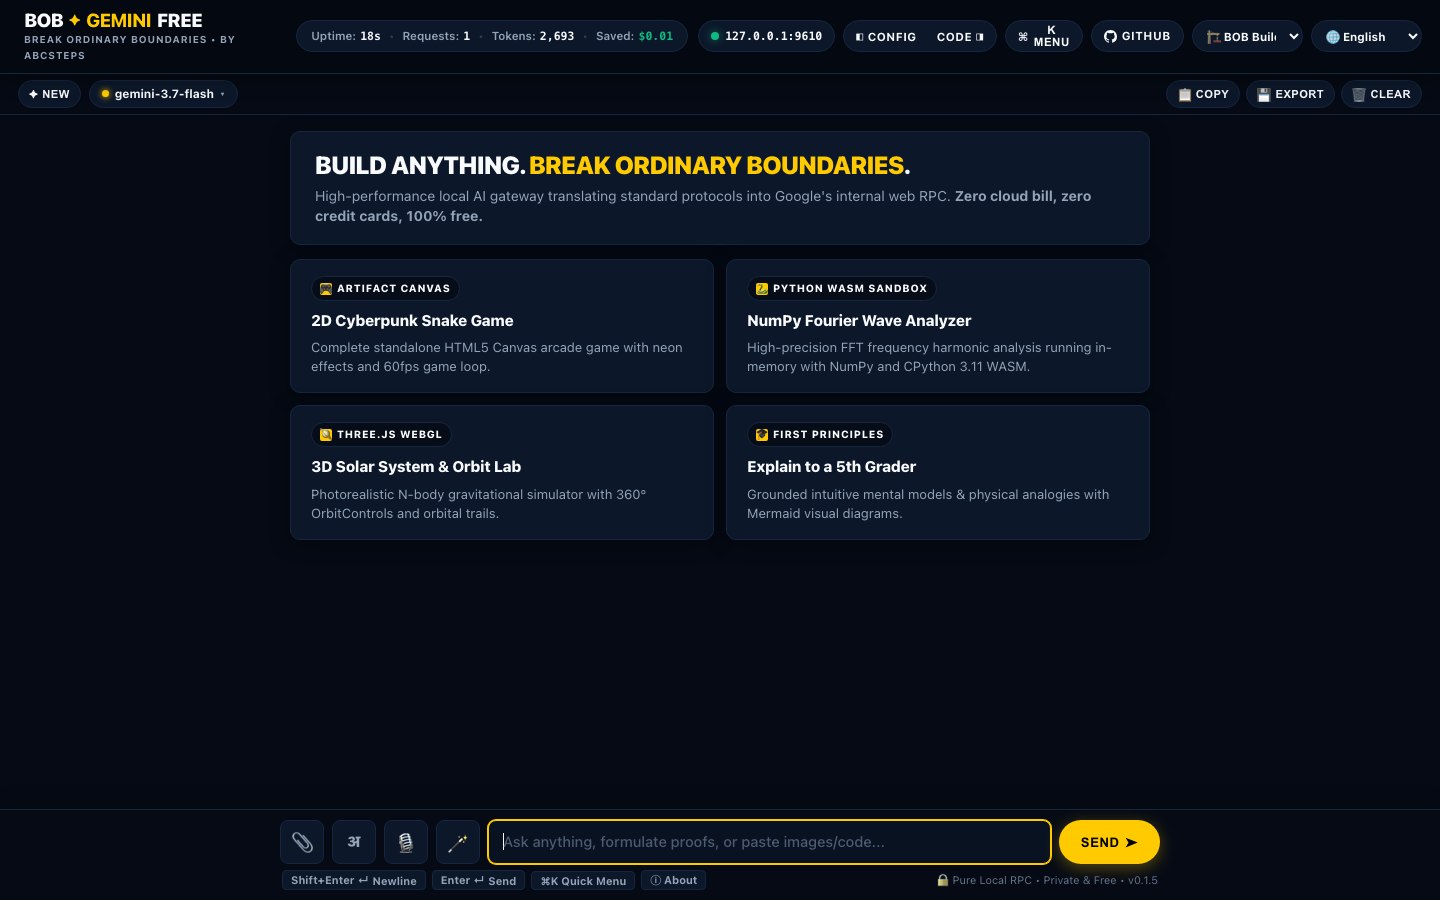
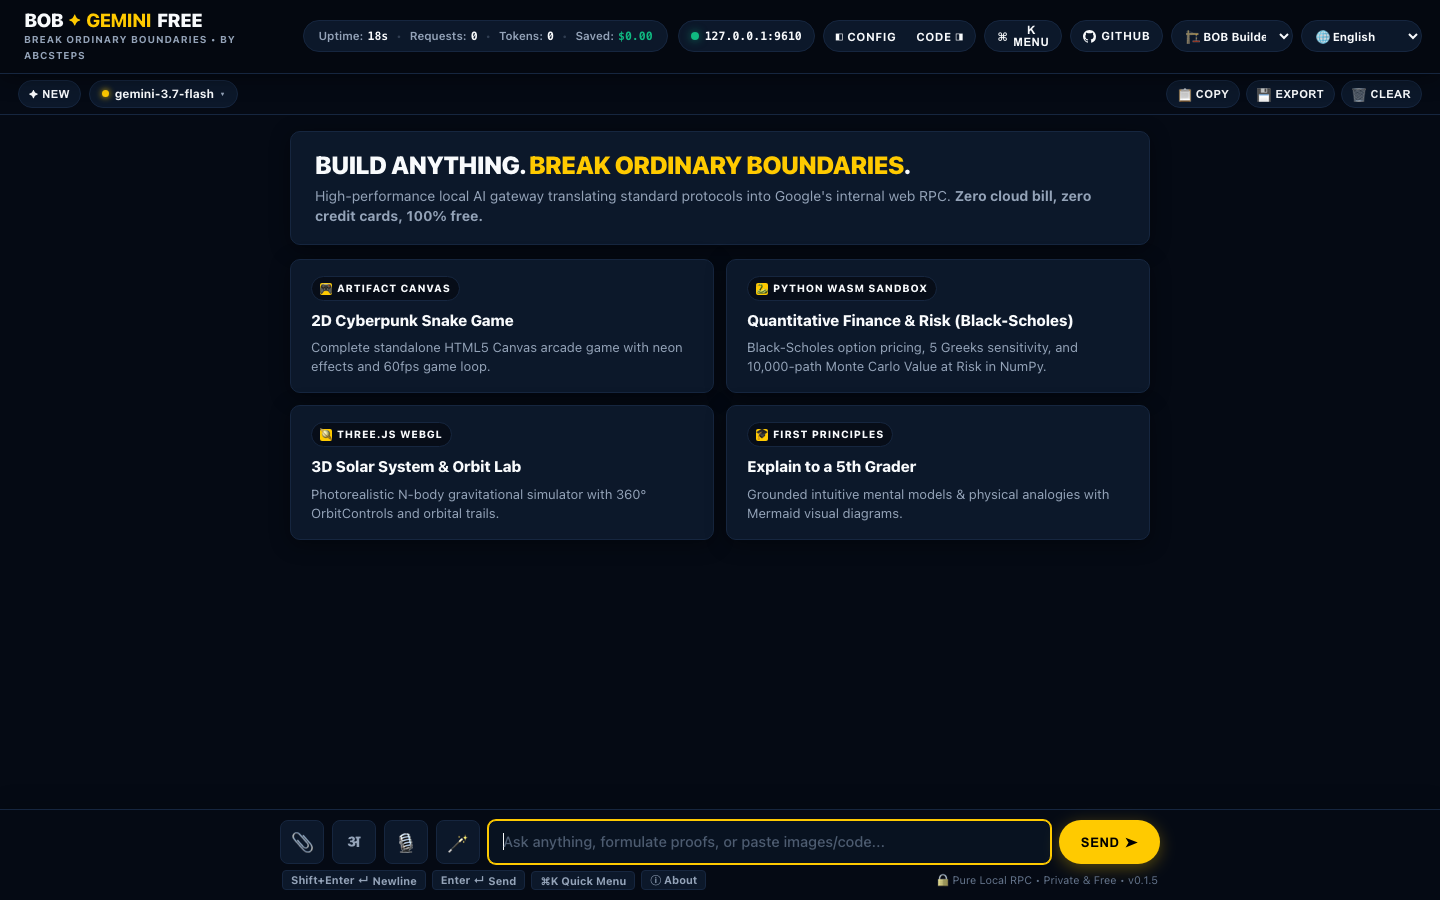
feat(showcase): upgrade Python WASM showcase to Quantitative Finance & Risk Analysis (Black-Scholes & Monte Carlo)

Changed region(s): [[0.1875, 0.0, 0.9688, 0.0622], [0.5312, 0.3422, 0.75, 0.4356]]

diff --git a/internal/server/playground.html b/internal/server/playground.html
@@ -3607,13 +3607,13 @@ tr:hover td { background: rgba(255, 255, 255, 0.02); }
               <div class="starter-card-title">2D Cyberpunk Snake Game</div>
               <div class="starter-card-desc">Complete standalone HTML5 Canvas arcade game with neon effects and 60fps game loop.</div>
             </div>
-            <div class="starter-card" onclick="selectStarter('py_fourier')">
+            <div class="starter-card" onclick="selectStarter('py_finance')">
               <div class="badge-chip">
                 <span class="mini-orb">🐍</span>
                 <span>PYTHON WASM SANDBOX</span>
               </div>
-              <div class="starter-card-title">NumPy Fourier Wave Analyzer</div>
-              <div class="starter-card-desc">High-precision FFT frequency harmonic analysis running in-memory with NumPy and CPython 3.11 WASM.</div>
+              <div class="starter-card-title">Quantitative Finance & Risk (Black-Scholes)</div>
+              <div class="starter-card-desc">Black-Scholes option pricing, 5 Greeks sensitivity, and 10,000-path Monte Carlo Value at Risk in NumPy.</div>
             </div>
             <div class="starter-card" onclick="selectStarter('orbit')">
               <div class="badge-chip">
@@ -3888,7 +3888,7 @@ const STARTER_PROMPTS_HI = {
   snake: "HTML5 Canvas में एक पूर्ण, स्टैंडअलोन 2D साइबरपंक स्नेक आर्केड गेम बनाएं। इसमें नियॉन ग्लो, खाना खाने पर कण विस्फोट (particles), बढ़ती कठिनाई, स्मूथ 60fps गेम लूप, हाई स्कोर ट्रैकिंग, Web Audio API ध्वनि प्रभाव और टच/तीर कुंजियों के नियंत्रण शामिल करें। संपूर्ण कोड एक ```html``` ब्लॉक में दें।",
   orbit: "Three.js (CDN के माध्यम से) का उपयोग करके HTML5 में एक पूर्ण, यथार्थवादी, इंटरैक्टिव 3D सौर मंडल व ग्रहीय कक्षा सिमुलेशन बनाएं। इसमें प्रकाशयुक्त सूर्य, G*m1*m2/r^2 गुरुत्वाकर्षण के साथ केप्लेरियन कक्षीय भौतिकी, चमकती कक्षीय रेखाएं, शनि के छल्ले, 360° OrbitControls (pan, rotate, zoom) और गति स्लाइडर शामिल करें। संपूर्ण कोड एक ```html``` ब्लॉक में दें।",
   compound: "Chart.js के साथ HTML5 में एक पूर्ण, स्टैंडअलोन इंटरैक्टिव वित्तीय चक्रवृद्धि ब्याज व धन वृद्धि कैलकुलेटर बनाएं। इसमें प्रारंभिक निवेश, मासिक योगदान, वार्षिक रिटर्न % और अवधि के लिए स्लाइडर्स शामिल करें। संचयी विकास का इंटरैक्टिव चार्ट प्रस्तुत करें। संपूर्ण कोड एक ```html``` ब्लॉक में दें।",
-  py_fourier: "Pyodide WebAssembly के लिए NumPy का उपयोग करके एक संपूर्ण वैज्ञानिक कम्प्यूटेशनल स्क्रिप्ट लिखें जो एक जटिल सिग्नल पर फास्ट फूरियर ट्रांसफॉर्म (FFT) विश्लेषण करे। पावर स्पेक्ट्रल घनत्व, पीक आवृत्तियों की गणना करें और एक संरचित ASCII स्पेक्ट्रम ग्राफ व मेट्रिक्स तालिका प्रिंट करें। संपूर्ण कोड एक ```python``` ब्लॉक में दें।",
+  py_finance: "Pyodide WebAssembly के लिए NumPy का उपयोग करके एक संपूर्ण परिमाणात्मक वित्त (Quantitative Finance) स्क्रिप्ट लिखें। ब्लैक-स्कोल्स मॉडल (Black-Scholes Model) का उपयोग करके कॉल और पुट विकल्पों का सटीक मूल्य निर्धारण करें, 5 जोखिम ग्रीक्स (Delta, Gamma, Theta, Vega, Rho) की गणना करें और 95% और 99% वैल्यू एट रिस्क (VaR) का अनुमान लगाने के लिए 10,000-पाथ मोंटे कार्लो सिमुलेशन चलाएं। एक संरचित वित्तीय डैशबोर्ड और जोखिम तालिका आउटपुट करें। संपूर्ण कोड एक ```python``` ब्लॉक में दें ताकि यह सीधे BOB के WASM सैंडबॉक्स में चले।",
   schrodinger: "डी ब्रोग्ली तरंग संबंधों और हैमिल्टनियन यांत्रिकी का उपयोग करते हुए प्रथम सिद्धांतों से समय-निर्भर श्रोडिंगर तरंग समीकरण (Time-Dependent Schrödinger Wave Equation) की KaTeX LaTeX गणितीय व्युत्पत्ति तैयार करें। प्रत्येक चरण को स्पष्ट समीकरणों के साथ समझाएं।",
   proof: "[विषय/सूत्र] के लिए चरण-दर-चरण गणितीय प्रमाण और KaTeX व्युत्पत्ति तैयार करें।",
   audit: "[सिस्टम/कोडबेस] का व्यापक प्रथम-सिद्धांत वास्तुकला विश्लेषण, सुरक्षा समीक्षा और तकनीकी बॉटलनेक ऑडिट करें।",
@@ -6250,7 +6250,7 @@ const STARTER_PROMPTS = {
   snake: "Build a complete, standalone 2D Cyberpunk Snake arcade game in HTML5 Canvas. Include neon glow aesthetics, particle explosions when eating food, increasing difficulty, smooth 60fps game loop, high score tracking, sound effects via Web Audio API, and touch + arrow key controls. Output the entire runnable code inside a single ```html``` block.",
   orbit: "Build a complete, photorealistic, interactive 3D Solar System & Planetary Orbit Simulation in standalone HTML5 using Three.js (via CDN). Include a glowing Sun with point light illumination, multi-planet Keplerian orbital mechanics with G*m1*m2/r^2 gravity, glowing orbital trail lines, textured planets, Saturn planetary rings, particle starfield galaxy background, full 360° OrbitControls (pan, rotate, mouse/touch zoom), and real-time physics controls (Simulation Speed 1x-100x, Pause/Play, Reset). Output the entire runnable self-contained code inside a single ```html``` block.",
   compound: "Build a complete, standalone interactive Financial Compound Wealth & Freedom Calculator in HTML5 with Chart.js. Include dynamic sliders for Initial Investment, Monthly Contribution, Annual Return %, and Investment Horizon (years). Render an interactive stacked growth chart showing Total Contributed vs Total Interest Earned, with inflation adjustment toggles and annual breakdown data tables. Output the entire runnable code inside a single ```html``` block.",
-  py_fourier: "Write a complete Python scientific computing script using numpy to perform Fast Fourier Transform (FFT) harmonic analysis on a noisy composite signal (fundamental frequency + 3rd and 5th harmonics). Calculate power spectral density, peak frequencies, and print a formatted ASCII spectrum graph and signal metrics table. Output the entire runnable code inside a single ```python``` block so it runs instantly in BOB's in-browser CPython 3.11 WebAssembly sandbox.",
+  py_finance: "Write a complete, production-grade Python quantitative finance script using numpy and scipy (or math/numpy) to evaluate European Option Pricing using the Black-Scholes Model. Calculate exact pricing for both Call and Put options, determine the 5 risk sensitivities / Greeks (Delta, Gamma, Theta, Vega, Rho), and run a 10,000-path Monte Carlo asset path simulation to compute the 95% and 99% Value at Risk (VaR) and Expected Shortfall (CVaR). Output a structured, formatted financial analytics dashboard and risk summary table. Output the entire runnable code inside a single ```python``` block so it executes directly in BOB's in-browser WebAssembly sandbox.",
   schrodinger: "Derive the Time-Dependent Schrödinger Wave Equation from first principles using de Broglie matter wave relations (E = \\hbar\\omega, p = \\hbar k), the classical energy conservation equation (E = p^2/2m + V), and differential wave operators. Formulate every step with clean, rigorous KaTeX LaTeX mathematical notation, detailing boundary conditions, the physical meaning of the complex probability wave function \\Psi(x,t), and probability conservation. Output clear LaTeX equations.",
   quantum: "Explain the mathematical principles of quantum superposition and entanglement with step-by-step reasoning and Dirac bra-ket matrices.",
   python: "Write a complete Python script using the official openai-python SDK configured to stream responses from BOB Gemini Free at http://127.0.0.1:9610/v1 with model gemini-3.7-flash and extract reasoning_content thinking tokens in real-time.",
@@ -6296,13 +6296,13 @@ function renderMessages() {
           <div class="starter-card-title">2D Cyberpunk Snake Game</div>
           <div class="starter-card-desc">Complete standalone HTML5 Canvas arcade game with neon effects and 60fps game loop.</div>
         </div>
-        <div class="starter-card" onclick="selectStarter('py_fourier')">
+        <div class="starter-card" onclick="selectStarter('py_finance')">
           <div class="badge-chip">
             <span class="mini-orb">🐍</span>
             <span>PYTHON WASM SANDBOX</span>
           </div>
-          <div class="starter-card-title">NumPy Fourier Wave Analyzer</div>
-          <div class="starter-card-desc">High-precision FFT frequency harmonic analysis running in-memory with NumPy and CPython 3.11 WASM.</div>
+          <div class="starter-card-title">Quantitative Finance & Risk (Black-Scholes)</div>
+          <div class="starter-card-desc">Black-Scholes option pricing, 5 Greeks sensitivity, and 10,000-path Monte Carlo Value at Risk in NumPy.</div>
         </div>
         <div class="starter-card" onclick="selectStarter('orbit')">
           <div class="badge-chip">

diff --git a/web/index.html b/web/index.html
@@ -3607,13 +3607,13 @@ tr:hover td { background: rgba(255, 255, 255, 0.02); }
               <div class="starter-card-title">2D Cyberpunk Snake Game</div>
               <div class="starter-card-desc">Complete standalone HTML5 Canvas arcade game with neon effects and 60fps game loop.</div>
             </div>
-            <div class="starter-card" onclick="selectStarter('py_fourier')">
+            <div class="starter-card" onclick="selectStarter('py_finance')">
               <div class="badge-chip">
                 <span class="mini-orb">🐍</span>
                 <span>PYTHON WASM SANDBOX</span>
               </div>
-              <div class="starter-card-title">NumPy Fourier Wave Analyzer</div>
-              <div class="starter-card-desc">High-precision FFT frequency harmonic analysis running in-memory with NumPy and CPython 3.11 WASM.</div>
+              <div class="starter-card-title">Quantitative Finance & Risk (Black-Scholes)</div>
+              <div class="starter-card-desc">Black-Scholes option pricing, 5 Greeks sensitivity, and 10,000-path Monte Carlo Value at Risk in NumPy.</div>
             </div>
             <div class="starter-card" onclick="selectStarter('orbit')">
               <div class="badge-chip">
@@ -3888,7 +3888,7 @@ const STARTER_PROMPTS_HI = {
   snake: "HTML5 Canvas में एक पूर्ण, स्टैंडअलोन 2D साइबरपंक स्नेक आर्केड गेम बनाएं। इसमें नियॉन ग्लो, खाना खाने पर कण विस्फोट (particles), बढ़ती कठिनाई, स्मूथ 60fps गेम लूप, हाई स्कोर ट्रैकिंग, Web Audio API ध्वनि प्रभाव और टच/तीर कुंजियों के नियंत्रण शामिल करें। संपूर्ण कोड एक ```html``` ब्लॉक में दें।",
   orbit: "Three.js (CDN के माध्यम से) का उपयोग करके HTML5 में एक पूर्ण, यथार्थवादी, इंटरैक्टिव 3D सौर मंडल व ग्रहीय कक्षा सिमुलेशन बनाएं। इसमें प्रकाशयुक्त सूर्य, G*m1*m2/r^2 गुरुत्वाकर्षण के साथ केप्लेरियन कक्षीय भौतिकी, चमकती कक्षीय रेखाएं, शनि के छल्ले, 360° OrbitControls (pan, rotate, zoom) और गति स्लाइडर शामिल करें। संपूर्ण कोड एक ```html``` ब्लॉक में दें।",
   compound: "Chart.js के साथ HTML5 में एक पूर्ण, स्टैंडअलोन इंटरैक्टिव वित्तीय चक्रवृद्धि ब्याज व धन वृद्धि कैलकुलेटर बनाएं। इसमें प्रारंभिक निवेश, मासिक योगदान, वार्षिक रिटर्न % और अवधि के लिए स्लाइडर्स शामिल करें। संचयी विकास का इंटरैक्टिव चार्ट प्रस्तुत करें। संपूर्ण कोड एक ```html``` ब्लॉक में दें।",
-  py_fourier: "Pyodide WebAssembly के लिए NumPy का उपयोग करके एक संपूर्ण वैज्ञानिक कम्प्यूटेशनल स्क्रिप्ट लिखें जो एक जटिल सिग्नल पर फास्ट फूरियर ट्रांसफॉर्म (FFT) विश्लेषण करे। पावर स्पेक्ट्रल घनत्व, पीक आवृत्तियों की गणना करें और एक संरचित ASCII स्पेक्ट्रम ग्राफ व मेट्रिक्स तालिका प्रिंट करें। संपूर्ण कोड एक ```python``` ब्लॉक में दें।",
+  py_finance: "Pyodide WebAssembly के लिए NumPy का उपयोग करके एक संपूर्ण परिमाणात्मक वित्त (Quantitative Finance) स्क्रिप्ट लिखें। ब्लैक-स्कोल्स मॉडल (Black-Scholes Model) का उपयोग करके कॉल और पुट विकल्पों का सटीक मूल्य निर्धारण करें, 5 जोखिम ग्रीक्स (Delta, Gamma, Theta, Vega, Rho) की गणना करें और 95% और 99% वैल्यू एट रिस्क (VaR) का अनुमान लगाने के लिए 10,000-पाथ मोंटे कार्लो सिमुलेशन चलाएं। एक संरचित वित्तीय डैशबोर्ड और जोखिम तालिका आउटपुट करें। संपूर्ण कोड एक ```python``` ब्लॉक में दें ताकि यह सीधे BOB के WASM सैंडबॉक्स में चले।",
   schrodinger: "डी ब्रोग्ली तरंग संबंधों और हैमिल्टनियन यांत्रिकी का उपयोग करते हुए प्रथम सिद्धांतों से समय-निर्भर श्रोडिंगर तरंग समीकरण (Time-Dependent Schrödinger Wave Equation) की KaTeX LaTeX गणितीय व्युत्पत्ति तैयार करें। प्रत्येक चरण को स्पष्ट समीकरणों के साथ समझाएं।",
   proof: "[विषय/सूत्र] के लिए चरण-दर-चरण गणितीय प्रमाण और KaTeX व्युत्पत्ति तैयार करें।",
   audit: "[सिस्टम/कोडबेस] का व्यापक प्रथम-सिद्धांत वास्तुकला विश्लेषण, सुरक्षा समीक्षा और तकनीकी बॉटलनेक ऑडिट करें।",
@@ -6250,7 +6250,7 @@ const STARTER_PROMPTS = {
   snake: "Build a complete, standalone 2D Cyberpunk Snake arcade game in HTML5 Canvas. Include neon glow aesthetics, particle explosions when eating food, increasing difficulty, smooth 60fps game loop, high score tracking, sound effects via Web Audio API, and touch + arrow key controls. Output the entire runnable code inside a single ```html``` block.",
   orbit: "Build a complete, photorealistic, interactive 3D Solar System & Planetary Orbit Simulation in standalone HTML5 using Three.js (via CDN). Include a glowing Sun with point light illumination, multi-planet Keplerian orbital mechanics with G*m1*m2/r^2 gravity, glowing orbital trail lines, textured planets, Saturn planetary rings, particle starfield galaxy background, full 360° OrbitControls (pan, rotate, mouse/touch zoom), and real-time physics controls (Simulation Speed 1x-100x, Pause/Play, Reset). Output the entire runnable self-contained code inside a single ```html``` block.",
   compound: "Build a complete, standalone interactive Financial Compound Wealth & Freedom Calculator in HTML5 with Chart.js. Include dynamic sliders for Initial Investment, Monthly Contribution, Annual Return %, and Investment Horizon (years). Render an interactive stacked growth chart showing Total Contributed vs Total Interest Earned, with inflation adjustment toggles and annual breakdown data tables. Output the entire runnable code inside a single ```html``` block.",
-  py_fourier: "Write a complete Python scientific computing script using numpy to perform Fast Fourier Transform (FFT) harmonic analysis on a noisy composite signal (fundamental frequency + 3rd and 5th harmonics). Calculate power spectral density, peak frequencies, and print a formatted ASCII spectrum graph and signal metrics table. Output the entire runnable code inside a single ```python``` block so it runs instantly in BOB's in-browser CPython 3.11 WebAssembly sandbox.",
+  py_finance: "Write a complete, production-grade Python quantitative finance script using numpy and scipy (or math/numpy) to evaluate European Option Pricing using the Black-Scholes Model. Calculate exact pricing for both Call and Put options, determine the 5 risk sensitivities / Greeks (Delta, Gamma, Theta, Vega, Rho), and run a 10,000-path Monte Carlo asset path simulation to compute the 95% and 99% Value at Risk (VaR) and Expected Shortfall (CVaR). Output a structured, formatted financial analytics dashboard and risk summary table. Output the entire runnable code inside a single ```python``` block so it executes directly in BOB's in-browser WebAssembly sandbox.",
   schrodinger: "Derive the Time-Dependent Schrödinger Wave Equation from first principles using de Broglie matter wave relations (E = \\hbar\\omega, p = \\hbar k), the classical energy conservation equation (E = p^2/2m + V), and differential wave operators. Formulate every step with clean, rigorous KaTeX LaTeX mathematical notation, detailing boundary conditions, the physical meaning of the complex probability wave function \\Psi(x,t), and probability conservation. Output clear LaTeX equations.",
   quantum: "Explain the mathematical principles of quantum superposition and entanglement with step-by-step reasoning and Dirac bra-ket matrices.",
   python: "Write a complete Python script using the official openai-python SDK configured to stream responses from BOB Gemini Free at http://127.0.0.1:9610/v1 with model gemini-3.7-flash and extract reasoning_content thinking tokens in real-time.",
@@ -6296,13 +6296,13 @@ function renderMessages() {
           <div class="starter-card-title">2D Cyberpunk Snake Game</div>
           <div class="starter-card-desc">Complete standalone HTML5 Canvas arcade game with neon effects and 60fps game loop.</div>
         </div>
-        <div class="starter-card" onclick="selectStarter('py_fourier')">
+        <div class="starter-card" onclick="selectStarter('py_finance')">
           <div class="badge-chip">
             <span class="mini-orb">🐍</span>
             <span>PYTHON WASM SANDBOX</span>
           </div>
-          <div class="starter-card-title">NumPy Fourier Wave Analyzer</div>
-          <div class="starter-card-desc">High-precision FFT frequency harmonic analysis running in-memory with NumPy and CPython 3.11 WASM.</div>
+          <div class="starter-card-title">Quantitative Finance & Risk (Black-Scholes)</div>
+          <div class="starter-card-desc">Black-Scholes option pricing, 5 Greeks sensitivity, and 10,000-path Monte Carlo Value at Risk in NumPy.</div>
         </div>
         <div class="starter-card" onclick="selectStarter('orbit')">
           <div class="badge-chip">
